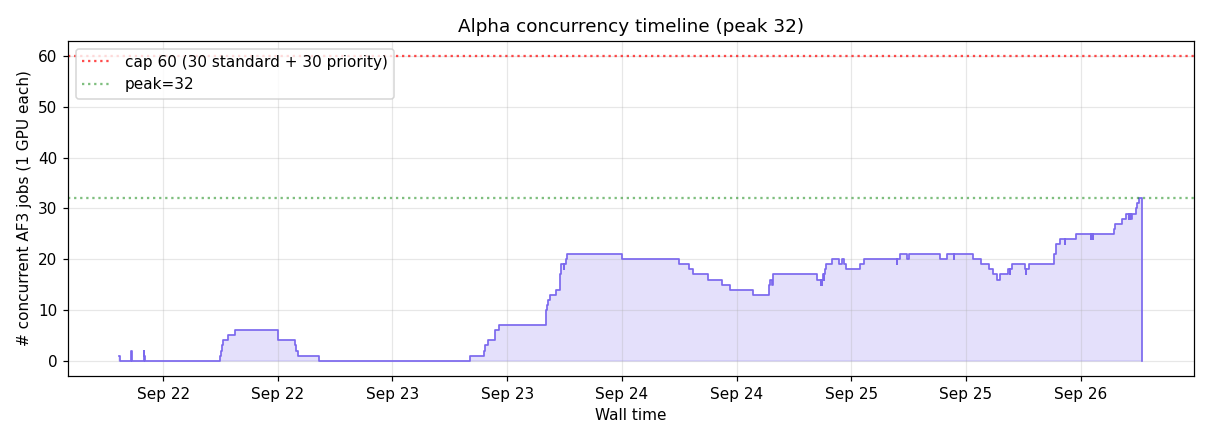
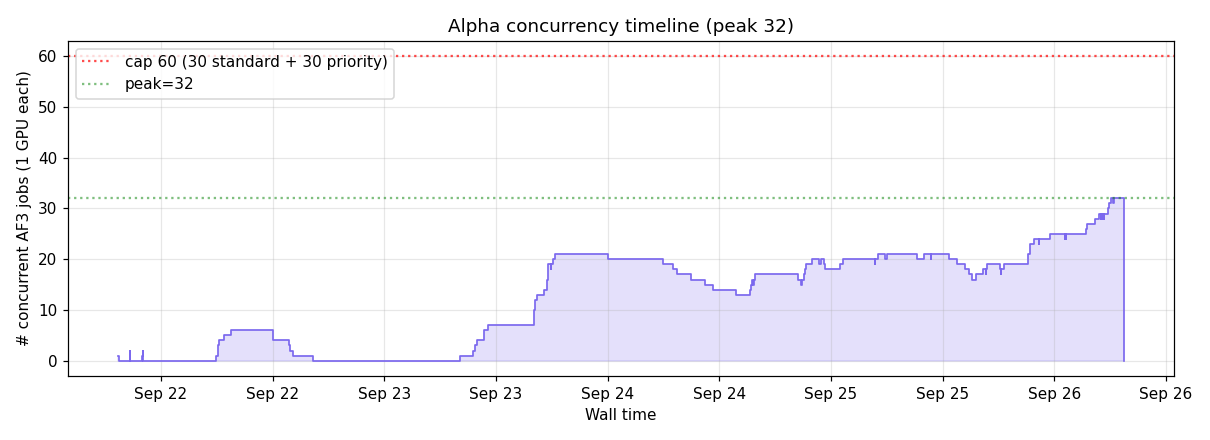
auto: 2026-09-26 07:27:23

diff --git a/index.html b/index.html
@@ -24,23 +24,23 @@ tr:nth-child(even) { background: #fafafa; }
 </style>
 </head><body>
 <h1>AF3 Campaign Dashboard</h1>
-<p class="stamp">Last updated: <strong>2026-09-26 06:27 EDT</strong> · regenerated on the cluster hourly · this page auto-reloads every 30 min</p>
+<p class="stamp">Last updated: <strong>2026-09-26 07:28 EDT</strong> · regenerated on the cluster hourly · this page auto-reloads every 30 min</p>
 
 <div class="cards">
-  <div class="card"><div class="v">2,619</div><div class="l">Total COMPLETED pairs</div></div>
-  <div class="card"><div class="v">590</div><div class="l">Done today</div></div>
-  <div class="card"><div class="v">1,103</div><div class="l">Last 24 h rate</div></div>
+  <div class="card"><div class="v">2,819</div><div class="l">Total COMPLETED pairs</div></div>
+  <div class="card"><div class="v">790</div><div class="l">Done today</div></div>
+  <div class="card"><div class="v">1,264</div><div class="l">Last 24 h rate</div></div>
   <div class="card"><div class="v">32 / 64</div><div class="l">Alpha jobs running / pending (1 GPU each)</div></div>
-  <div class="card"><div class="v">26 / 10</div><div class="l">Beta jobs running / pending (4× GB200 each)</div></div>
-  <div class="card"><div class="v">428</div><div class="l">Beta pairs, last 24 h</div></div>
-  <div class="card"><div class="v">30.0 days</div><div class="l">ETA at last-24h rate (33,131 left)</div></div>
+  <div class="card"><div class="v">32 / 9</div><div class="l">Beta jobs running / pending (4× GB200 each)</div></div>
+  <div class="card"><div class="v">592</div><div class="l">Beta pairs, last 24 h</div></div>
+  <div class="card"><div class="v">26.1 days</div><div class="l">ETA at last-24h rate (32,931 left)</div></div>
 </div>
 
 <h2>Beta (GB200) jobs</h2>
 <p class='stamp'>Beta snapshot 4 min old (refreshed every 10 min from the Beta login node).</p>
 <div class="queue-table">
 <table><thead><tr><th>Job</th><th>State</th><th>Elapsed</th><th>Left</th><th>Pairs done</th><th>Node / reason</th></tr></thead>
-<tbody><tr><td>af3_beta_p344_pk4</td><td>PENDING</td><td>0:00</td><td>1-00:00:00</td><td>0 / 309</td><td>pending: (Priority)</td></tr><tr><td>af3_beta_p347_pk4</td><td>PENDING</td><td>0:00</td><td>1-00:00:00</td><td>0 / 317</td><td>pending: (Priority)</td></tr><tr><td>af3_beta_p351_pk4</td><td>PENDING</td><td>0:00</td><td>1-00:00:00</td><td>0 / 355</td><td>pending: (Priority)</td></tr><tr><td>af3_beta_p355_pk4</td><td>PENDING</td><td>0:00</td><td>1-00:00:00</td><td>0 / 341</td><td>pending: (Priority)</td></tr><tr><td>af3_beta_p358_pk4</td><td>PENDING</td><td>0:00</td><td>1-00:00:00</td><td>0 / 312</td><td>pending: (Priority)</td></tr><tr><td>af3_beta_p363_pk4</td><td>PENDING</td><td>0:00</td><td>1-00:00:00</td><td>0 / 304</td><td>pending: (Priority)</td></tr><tr><td>af3_beta_p366_pk4</td><td>PENDING</td><td>0:00</td><td>1-00:00:00</td><td>0 / 289</td><td>pending: (Priority)</td></tr><tr><td>af3_beta_p367_pk2</td><td>PENDING</td><td>0:00</td><td>1-00:00:00</td><td>0 / 154</td><td>pending: (Priority)</td></tr><tr><td>af3_beta_p373_pk5</td><td>PENDING</td><td>0:00</td><td>1-00:00:00</td><td>0 / 340</td><td>pending: (Priority)</td></tr><tr><td>af3_beta_p369_pk3</td><td>PENDING</td><td>0:00</td><td>1-00:00:00</td><td>0 / 274</td><td>pending: (Priority)</td></tr><tr><td>af3_beta_p447_b001</td><td>RUNNING</td><td>6:28:23</td><td>17:31:37</td><td>14 / 110</td><td>b3-31-s1-dgx-03-c12</td></tr><tr><td>af3_beta_p448_b001</td><td>RUNNING</td><td>6:33:23</td><td>17:26:37</td><td>21 / 110</td><td>b1-33-s1-dgx-01-c14</td></tr><tr><td>af3_beta_p449_b001</td><td>RUNNING</td><td>6:44:25</td><td>17:15:35</td><td>35 / 110</td><td>b2-33-s1-dgx-02-c14</td></tr><tr><td>af3_beta_p451_b001</td><td>RUNNING</td><td>7:46:03</td><td>16:13:57</td><td>47 / 110</td><td>b3-29-s1-dgx-03-c10</td></tr><tr><td>af3_beta_p452_b001</td><td>RUNNING</td><td>7:51:34</td><td>16:08:26</td><td>56 / 106</td><td>b3-28-s1-dgx-03-c09</td></tr><tr><td>af3_beta_p426_pk3</td><td>RUNNING</td><td>5:31:14</td><td>18:28:46</td><td>14 / 238</td><td>b3-15-s1-dgx-03-c05</td></tr><tr><td>af3_beta_p446_b001</td><td>RUNNING</td><td>6:20:21</td><td>17:39:39</td><td>14 / 110</td><td>b3-37-s1-dgx-03-c18</td></tr><tr><td>af3_beta_p429_pk4</td><td>RUNNING</td><td>5:33:45</td><td>18:26:15</td><td>15 / 315</td><td>b1-32-s1-dgx-01-c13</td></tr><tr><td>af3_beta_p433_pk4</td><td>RUNNING</td><td>5:43:16</td><td>18:16:44</td><td>15 / 334</td><td>b1-30-s1-dgx-01-c11</td></tr><tr><td>af3_beta_p435_pk3</td><td>RUNNING</td><td>6:08:20</td><td>17:51:40</td><td>16 / 278</td><td>b1-34-s1-dgx-01-c15</td></tr><tr><td>af3_beta_p439_pk4</td><td>RUNNING</td><td>6:09:20</td><td>17:50:40</td><td>18 / 331</td><td>b1-29-s1-dgx-01-c10</td></tr><tr><td>af3_beta_p440_b001</td><td>RUNNING</td><td>6:14:20</td><td>17:45:40</td><td>25 / 110</td><td>b3-36-s1-dgx-03-c17</td></tr><tr><td>af3_beta_p444_b001</td><td>RUNNING</td><td>6:14:51</td><td>17:45:09</td><td>25 / 110</td><td>b3-11-s1-dgx-03-c01</td></tr><tr><td>af3_beta_p443_b001</td><td>RUNNING</td><td>6:14:51</td><td>17:45:09</td><td>27 / 110</td><td>b3-18-s1-dgx-03-c08</td></tr><tr><td>af3_beta_p442_b001</td><td>RUNNING</td><td>6:14:51</td><td>17:45:09</td><td>23 / 110</td><td>b3-32-s1-dgx-03-c13</td></tr><tr><td>af3_beta_p423_pk4</td><td>RUNNING</td><td>5:26:14</td><td>18:33:46</td><td>17 / 347</td><td>b2-30-s1-dgx-02-c11</td></tr><tr><td>af3_beta_p375_pk3</td><td>RUNNING</td><td>1:26:29</td><td>22:33:31</td><td>0 / 218</td><td>b2-14-s1-dgx-02-c04</td></tr><tr><td>af3_beta_p380_pk3</td><td>RUNNING</td><td>1:27:59</td><td>22:32:01</td><td>0 / 256</td><td>b3-13-s1-dgx-03-c03</td></tr><tr><td>af3_beta_p378_pk4</td><td>RUNNING</td><td>1:27:59</td><td>22:32:01</td><td>1 / 340</td><td>b3-14-s1-dgx-03-c04</td></tr><tr><td>af3_beta_p383_pk4</td><td>RUNNING</td><td>1:28:59</td><td>22:31:01</td><td>0 / 293</td><td>b2-18-s1-dgx-02-c08</td></tr><tr><td>af3_beta_p385_pk2</td><td>RUNNING</td><td>1:29:00</td><td>22:31:00</td><td>0 / 106</td><td>b3-12-s1-dgx-03-c02</td></tr><tr><td>af3_beta_p387_pk3</td><td>RUNNING</td><td>1:39:02</td><td>22:20:58</td><td>3 / 275</td><td>b1-37-s1-dgx-01-c18</td></tr><tr><td>af3_beta_p390_pk3</td><td>RUNNING</td><td>1:42:02</td><td>22:17:58</td><td>3 / 248</td><td>b2-17-s1-dgx-02-c07</td></tr><tr><td>af3_beta_p395_pk4</td><td>RUNNING</td><td>1:46:03</td><td>22:13:57</td><td>4 / 304</td><td>b3-34-s1-dgx-03-c15</td></tr><tr><td>af3_beta_p399_pk4</td><td>RUNNING</td><td>1:50:04</td><td>22:09:56</td><td>3 / 313</td><td>b3-33-s1-dgx-03-c14</td></tr><tr><td>af3_beta_p420_pk4</td><td>RUNNING</td><td>1:50:34</td><td>22:09:26</td><td>4 / 305</td><td>b2-29-s1-dgx-02-c10</td></tr></tbody></table>
+<tbody><tr><td>af3_beta_p344_pk4</td><td>PENDING</td><td>0:00</td><td>1-00:00:00</td><td>0 / 309</td><td>pending: (Priority)</td></tr><tr><td>af3_beta_p347_pk4</td><td>PENDING</td><td>0:00</td><td>1-00:00:00</td><td>0 / 317</td><td>pending: (Priority)</td></tr><tr><td>af3_beta_p351_pk4</td><td>PENDING</td><td>0:00</td><td>1-00:00:00</td><td>0 / 355</td><td>pending: (Priority)</td></tr><tr><td>af3_beta_p355_pk4</td><td>PENDING</td><td>0:00</td><td>1-00:00:00</td><td>0 / 341</td><td>pending: (Priority)</td></tr><tr><td>af3_beta_p327_pk4</td><td>PENDING</td><td>0:00</td><td>1-00:00:00</td><td>0 / 294</td><td>pending: (Priority)</td></tr><tr><td>af3_beta_p330_pk3</td><td>PENDING</td><td>0:00</td><td>1-00:00:00</td><td>0 / 308</td><td>pending: (Priority)</td></tr><tr><td>af3_beta_p334_pk4</td><td>PENDING</td><td>0:00</td><td>1-00:00:00</td><td>0 / 243</td><td>pending: (Priority)</td></tr><tr><td>af3_beta_p337_pk4</td><td>PENDING</td><td>0:00</td><td>1-00:00:00</td><td>0 / 332</td><td>pending: (Priority)</td></tr><tr><td>af3_beta_p339_pk3</td><td>PENDING</td><td>0:00</td><td>1-00:00:00</td><td>0 / 290</td><td>pending: (Priority)</td></tr><tr><td>af3_beta_p447_b001</td><td>RUNNING</td><td>7:28:36</td><td>16:31:24</td><td>18 / 110</td><td>b3-31-s1-dgx-03-c12</td></tr><tr><td>af3_beta_p448_b001</td><td>RUNNING</td><td>7:33:36</td><td>16:26:24</td><td>23 / 110</td><td>b1-33-s1-dgx-01-c14</td></tr><tr><td>af3_beta_p449_b001</td><td>RUNNING</td><td>7:44:38</td><td>16:15:22</td><td>51 / 110</td><td>b2-33-s1-dgx-02-c14</td></tr><tr><td>af3_beta_p451_b001</td><td>RUNNING</td><td>8:46:16</td><td>15:13:44</td><td>71 / 110</td><td>b3-29-s1-dgx-03-c10</td></tr><tr><td>af3_beta_p452_b001</td><td>RUNNING</td><td>8:51:47</td><td>15:08:13</td><td>89 / 106</td><td>b3-28-s1-dgx-03-c09</td></tr><tr><td>af3_beta_p426_pk3</td><td>RUNNING</td><td>6:31:27</td><td>17:28:33</td><td>17 / 238</td><td>b3-15-s1-dgx-03-c05</td></tr><tr><td>af3_beta_p446_b001</td><td>RUNNING</td><td>7:20:34</td><td>16:39:26</td><td>16 / 110</td><td>b3-37-s1-dgx-03-c18</td></tr><tr><td>af3_beta_p429_pk4</td><td>RUNNING</td><td>6:33:58</td><td>17:26:02</td><td>20 / 315</td><td>b1-32-s1-dgx-01-c13</td></tr><tr><td>af3_beta_p433_pk4</td><td>RUNNING</td><td>6:43:29</td><td>17:16:31</td><td>21 / 334</td><td>b1-30-s1-dgx-01-c11</td></tr><tr><td>af3_beta_p435_pk3</td><td>RUNNING</td><td>7:08:33</td><td>16:51:27</td><td>20 / 278</td><td>b1-34-s1-dgx-01-c15</td></tr><tr><td>af3_beta_p439_pk4</td><td>RUNNING</td><td>7:09:33</td><td>16:50:27</td><td>22 / 331</td><td>b1-29-s1-dgx-01-c10</td></tr><tr><td>af3_beta_p440_b001</td><td>RUNNING</td><td>7:14:33</td><td>16:45:27</td><td>33 / 110</td><td>b3-36-s1-dgx-03-c17</td></tr><tr><td>af3_beta_p444_b001</td><td>RUNNING</td><td>7:15:04</td><td>16:44:56</td><td>35 / 110</td><td>b3-11-s1-dgx-03-c01</td></tr><tr><td>af3_beta_p443_b001</td><td>RUNNING</td><td>7:15:04</td><td>16:44:56</td><td>36 / 110</td><td>b3-18-s1-dgx-03-c08</td></tr><tr><td>af3_beta_p442_b001</td><td>RUNNING</td><td>7:15:04</td><td>16:44:56</td><td>30 / 110</td><td>b3-32-s1-dgx-03-c13</td></tr><tr><td>af3_beta_p423_pk4</td><td>RUNNING</td><td>6:26:27</td><td>17:33:33</td><td>21 / 347</td><td>b2-30-s1-dgx-02-c11</td></tr><tr><td>af3_beta_p375_pk3</td><td>RUNNING</td><td>2:26:42</td><td>21:33:18</td><td>4 / 218</td><td>b2-14-s1-dgx-02-c04</td></tr><tr><td>af3_beta_p380_pk3</td><td>RUNNING</td><td>2:28:12</td><td>21:31:48</td><td>4 / 256</td><td>b3-13-s1-dgx-03-c03</td></tr><tr><td>af3_beta_p378_pk4</td><td>RUNNING</td><td>2:28:12</td><td>21:31:48</td><td>4 / 340</td><td>b3-14-s1-dgx-03-c04</td></tr><tr><td>af3_beta_p383_pk4</td><td>RUNNING</td><td>2:29:12</td><td>21:30:48</td><td>4 / 293</td><td>b2-18-s1-dgx-02-c08</td></tr><tr><td>af3_beta_p385_pk2</td><td>RUNNING</td><td>2:29:13</td><td>21:30:47</td><td>3 / 106</td><td>b3-12-s1-dgx-03-c02</td></tr><tr><td>af3_beta_p387_pk3</td><td>RUNNING</td><td>2:39:15</td><td>21:20:45</td><td>4 / 275</td><td>b1-37-s1-dgx-01-c18</td></tr><tr><td>af3_beta_p390_pk3</td><td>RUNNING</td><td>2:42:15</td><td>21:17:45</td><td>4 / 248</td><td>b2-17-s1-dgx-02-c07</td></tr><tr><td>af3_beta_p395_pk4</td><td>RUNNING</td><td>2:46:16</td><td>21:13:44</td><td>8 / 304</td><td>b3-34-s1-dgx-03-c15</td></tr><tr><td>af3_beta_p399_pk4</td><td>RUNNING</td><td>2:50:17</td><td>21:09:43</td><td>4 / 313</td><td>b3-33-s1-dgx-03-c14</td></tr><tr><td>af3_beta_p420_pk4</td><td>RUNNING</td><td>2:50:47</td><td>21:09:13</td><td>6 / 305</td><td>b2-29-s1-dgx-02-c10</td></tr><tr><td>af3_beta_p358_pk4</td><td>RUNNING</td><td>9:32</td><td>23:50:28</td><td>0 / 312</td><td>b2-31-s1-dgx-02-c12</td></tr><tr><td>af3_beta_p363_pk4</td><td>RUNNING</td><td>31:09</td><td>23:28:51</td><td>0 / 304</td><td>b2-13-s1-dgx-02-c03</td></tr><tr><td>af3_beta_p373_pk5</td><td>RUNNING</td><td>33:10</td><td>23:26:50</td><td>0 / 340</td><td>b2-11-s1-dgx-02-c01</td></tr><tr><td>af3_beta_p369_pk3</td><td>RUNNING</td><td>33:10</td><td>23:26:50</td><td>0 / 274</td><td>b2-15-s1-dgx-02-c05</td></tr><tr><td>af3_beta_p367_pk2</td><td>RUNNING</td><td>33:10</td><td>23:26:50</td><td>0 / 154</td><td>b1-16-s1-dgx-01-c06</td></tr><tr><td>af3_beta_p366_pk4</td><td>RUNNING</td><td>33:10</td><td>23:26:50</td><td>0 / 289</td><td>b1-18-s1-dgx-01-c08</td></tr></tbody></table>
 </div>
 
 <h2>Alpha live queue</h2>
@@ -49,14 +49,14 @@ tr:nth-child(even) { background: #fafafa; }
     <h3>RUNNING (32)</h3>
     <div class="queue-table">
       <table><thead><tr><th>Job</th><th>Elapsed</th><th>Left</th><th>Reason / Node</th></tr></thead>
-      <tbody><tr><td>af3_p093_b003</td><td>32:45</td><td>23:27:15</td><td>alphagpu51</td></tr><tr><td>af3_p094_b002</td><td>3:48</td><td>23:56:12</td><td>alphagpu53</td></tr><tr><td>af3_p093_b002</td><td>41:00</td><td>23:19:00</td><td>alphagpu52</td></tr><tr><td>af3_p094_b001</td><td>18:21</td><td>23:41:39</td><td>alphagpu51</td></tr><tr><td>af3_p093_b001</td><td>1:07:08</td><td>22:52:52</td><td>alphagpu52</td></tr><tr><td>af3_p092_b003</td><td>1:17:53</td><td>22:42:07</td><td>alphagpu53</td></tr><tr><td>af3_p092_b002</td><td>1:24:02</td><td>22:35:58</td><td>alphagpu53</td></tr><tr><td>af3_p092_b001</td><td>1:38:57</td><td>22:21:03</td><td>alphagpu52</td></tr><tr><td>af3_p091_b003</td><td>2:04:08</td><td>21:55:52</td><td>alphagpu52</td></tr><tr><td>af3_p091_b002</td><td>2:51:56</td><td>21:08:04</td><td>alphagpu51</td></tr><tr><td>af3_p091_b001</td><td>3:00:09</td><td>20:59:51</td><td>alphagpu54</td></tr><tr><td>af3_p090_b003</td><td>5:11:19</td><td>18:48:41</td><td>alphagpu52</td></tr><tr><td>af3_p090_b002</td><td>5:18:31</td><td>18:41:29</td><td>alphagpu53</td></tr><tr><td>af3_p090_b001</td><td>6:54:56</td><td>17:05:04</td><td>alphagpu54</td></tr><tr><td>af3_p085_b003</td><td>8:05:44</td><td>15:54:16</td><td>alphagpu52</td></tr><tr><td>af3_p085_b002</td><td>8:36:07</td><td>15:23:53</td><td>alphagpu54</td></tr><tr><td>af3_p085_b001</td><td>9:01:47</td><td>14:58:13</td><td>alphagpu54</td></tr><tr><td>af3_p083_b003</td><td>9:04:21</td><td>14:55:39</td><td>alphagpu54</td></tr><tr><td>af3_p083_b002</td><td>9:13:04</td><td>14:46:56</td><td>alphagpu52</td></tr><tr><td>af3_p083_b001</td><td>9:15:07</td><td>14:44:53</td><td>alphagpu53</td></tr><tr><td>af3_p061_b002</td><td>1-00:26:27</td><td>23:33:33</td><td>alphagpu51</td></tr><tr><td>af3_p061_b001</td><td>1-01:19:52</td><td>22:40:08</td><td>alphagpu53</td></tr><tr><td>af3_p060_b002</td><td>1-01:39:35</td><td>22:20:25</td><td>alphagpu51</td></tr><tr><td>af3_p060_b001</td><td>1-05:08:25</td><td>18:51:35</td><td>alphagpu53</td></tr><tr><td>af3_p065_b002</td><td>11:52:04</td><td>1-12:07:56</td><td>alphagpu54</td></tr><tr><td>af3_p065_b001</td><td>12:10:37</td><td>1-11:49:23</td><td>alphagpu52</td></tr><tr><td>af3_p064_b002</td><td>13:37:52</td><td>1-10:22:08</td><td>alphagpu53</td></tr><tr><td>af3_p064_b001</td><td>13:47:30</td><td>1-10:12:30</td><td>alphagpu54</td></tr><tr><td>af3_p063_b002</td><td>14:02:43</td><td>1-09:57:17</td><td>alphagpu51</td></tr><tr><td>af3_p063_b001</td><td>14:51:54</td><td>1-09:08:06</td><td>alphagpu51</td></tr><tr><td>af3_p062_b002</td><td>19:39:50</td><td>1-04:20:10</td><td>alphagpu51</td></tr><tr><td>af3_p062_b001</td><td>20:23:21</td><td>1-03:36:39</td><td>alphagpu54</td></tr></tbody></table>
+      <tbody><tr><td>af3_p093_b003</td><td>1:33:34</td><td>22:26:26</td><td>alphagpu51</td></tr><tr><td>af3_p094_b002</td><td>1:04:37</td><td>22:55:23</td><td>alphagpu53</td></tr><tr><td>af3_p093_b002</td><td>1:41:49</td><td>22:18:11</td><td>alphagpu52</td></tr><tr><td>af3_p094_b001</td><td>1:19:10</td><td>22:40:50</td><td>alphagpu51</td></tr><tr><td>af3_p093_b001</td><td>2:07:57</td><td>21:52:03</td><td>alphagpu52</td></tr><tr><td>af3_p092_b003</td><td>2:18:42</td><td>21:41:18</td><td>alphagpu53</td></tr><tr><td>af3_p092_b002</td><td>2:24:51</td><td>21:35:09</td><td>alphagpu53</td></tr><tr><td>af3_p092_b001</td><td>2:39:46</td><td>21:20:14</td><td>alphagpu52</td></tr><tr><td>af3_p091_b003</td><td>3:04:57</td><td>20:55:03</td><td>alphagpu52</td></tr><tr><td>af3_p091_b002</td><td>3:52:45</td><td>20:07:15</td><td>alphagpu51</td></tr><tr><td>af3_p091_b001</td><td>4:00:58</td><td>19:59:02</td><td>alphagpu54</td></tr><tr><td>af3_p090_b003</td><td>6:12:08</td><td>17:47:52</td><td>alphagpu52</td></tr><tr><td>af3_p090_b002</td><td>6:19:20</td><td>17:40:40</td><td>alphagpu53</td></tr><tr><td>af3_p090_b001</td><td>7:55:45</td><td>16:04:15</td><td>alphagpu54</td></tr><tr><td>af3_p085_b003</td><td>9:06:33</td><td>14:53:27</td><td>alphagpu52</td></tr><tr><td>af3_p085_b002</td><td>9:36:56</td><td>14:23:04</td><td>alphagpu54</td></tr><tr><td>af3_p085_b001</td><td>10:02:36</td><td>13:57:24</td><td>alphagpu54</td></tr><tr><td>af3_p083_b003</td><td>10:05:10</td><td>13:54:50</td><td>alphagpu54</td></tr><tr><td>af3_p083_b002</td><td>10:13:53</td><td>13:46:07</td><td>alphagpu52</td></tr><tr><td>af3_p083_b001</td><td>10:15:56</td><td>13:44:04</td><td>alphagpu53</td></tr><tr><td>af3_p061_b002</td><td>1-01:27:16</td><td>22:32:44</td><td>alphagpu51</td></tr><tr><td>af3_p061_b001</td><td>1-02:20:41</td><td>21:39:19</td><td>alphagpu53</td></tr><tr><td>af3_p060_b002</td><td>1-02:40:24</td><td>21:19:36</td><td>alphagpu51</td></tr><tr><td>af3_p060_b001</td><td>1-06:09:14</td><td>17:50:46</td><td>alphagpu53</td></tr><tr><td>af3_p065_b002</td><td>12:52:53</td><td>1-11:07:07</td><td>alphagpu54</td></tr><tr><td>af3_p065_b001</td><td>13:11:26</td><td>1-10:48:34</td><td>alphagpu52</td></tr><tr><td>af3_p064_b002</td><td>14:38:41</td><td>1-09:21:19</td><td>alphagpu53</td></tr><tr><td>af3_p064_b001</td><td>14:48:19</td><td>1-09:11:41</td><td>alphagpu54</td></tr><tr><td>af3_p063_b002</td><td>15:03:32</td><td>1-08:56:28</td><td>alphagpu51</td></tr><tr><td>af3_p063_b001</td><td>15:52:43</td><td>1-08:07:17</td><td>alphagpu51</td></tr><tr><td>af3_p062_b002</td><td>20:40:39</td><td>1-03:19:21</td><td>alphagpu51</td></tr><tr><td>af3_p062_b001</td><td>21:24:10</td><td>1-02:35:50</td><td>alphagpu54</td></tr></tbody></table>
     </div>
   </div>
   <div>
     <h3>PENDING (64)</h3>
     <div class="queue-table">
       <table><thead><tr><th>Job</th><th>Wait</th><th>Limit</th><th>Reason</th></tr></thead>
-      <tbody><tr><td>af3_p094_b003</td><td>0:00</td><td>1-00:00:00</td><td>(Priority)</td></tr><tr><td>af3_p096_b003</td><td>0:00</td><td>1-00:00:00</td><td>(Priority)</td></tr><tr><td>af3_p096_b001</td><td>0:00</td><td>1-00:00:00</td><td>(Priority)</td></tr><tr><td>af3_p096_b002</td><td>0:00</td><td>1-00:00:00</td><td>(Priority)</td></tr><tr><td>af3_p095_b003</td><td>0:00</td><td>1-00:00:00</td><td>(Priority)</td></tr><tr><td>af3_p095_b002</td><td>0:00</td><td>1-00:00:00</td><td>(Priority)</td></tr><tr><td>af3_p095_b001</td><td>0:00</td><td>1-00:00:00</td><td>(Priority)</td></tr><tr><td>af3_p098_b003</td><td>0:00</td><td>1-00:00:00</td><td>(Priority)</td></tr><tr><td>af3_p098_b002</td><td>0:00</td><td>1-00:00:00</td><td>(Priority)</td></tr><tr><td>af3_p098_b001</td><td>0:00</td><td>1-00:00:00</td><td>(Priority)</td></tr><tr><td>af3_p097_b002</td><td>0:00</td><td>1-00:00:00</td><td>(Priority)</td></tr><tr><td>af3_p097_b003</td><td>0:00</td><td>1-00:00:00</td><td>(Priority)</td></tr><tr><td>af3_p097_b001</td><td>0:00</td><td>1-00:00:00</td><td>(Priority)</td></tr><tr><td>af3_p100_b003</td><td>0:00</td><td>1-00:00:00</td><td>(Priority)</td></tr><tr><td>af3_p100_b001</td><td>0:00</td><td>1-00:00:00</td><td>(Priority)</td></tr><tr><td>af3_p100_b002</td><td>0:00</td><td>1-00:00:00</td><td>(Priority)</td></tr><tr><td>af3_p099_b003</td><td>0:00</td><td>1-00:00:00</td><td>(Priority)</td></tr><tr><td>af3_p099_b002</td><td>0:00</td><td>1-00:00:00</td><td>(Priority)</td></tr><tr><td>af3_p099_b001</td><td>0:00</td><td>1-00:00:00</td><td>(Priority)</td></tr><tr><td>af3_p102_b003</td><td>0:00</td><td>1-00:00:00</td><td>(Priority)</td></tr><tr><td>af3_p102_b002</td><td>0:00</td><td>1-00:00:00</td><td>(Priority)</td></tr><tr><td>af3_p102_b001</td><td>0:00</td><td>1-00:00:00</td><td>(Priority)</td></tr><tr><td>af3_p101_b002</td><td>0:00</td><td>1-00:00:00</td><td>(Priority)</td></tr><tr><td>af3_p101_b003</td><td>0:00</td><td>1-00:00:00</td><td>(Priority)</td></tr><tr><td>af3_p101_b001</td><td>0:00</td><td>1-00:00:00</td><td>(Priority)</td></tr><tr><td>af3_p103_b003</td><td>0:00</td><td>1-00:00:00</td><td>(Priority)</td></tr><tr><td>af3_p103_b002</td><td>0:00</td><td>1-00:00:00</td><td>(Priority)</td></tr><tr><td>af3_p103_b001</td><td>0:00</td><td>1-00:00:00</td><td>(Priority)</td></tr><tr><td>af3_p071_b002</td><td>0:00</td><td>2-00:00:00</td><td>(Priority)</td></tr><tr><td>af3_p071_b001</td><td>0:00</td><td>2-00:00:00</td><td>(Priority)</td></tr><tr><td>af3_p070_b002</td><td>0:00</td><td>2-00:00:00</td><td>(Priority)</td></tr><tr><td>af3_p070_b001</td><td>0:00</td><td>2-00:00:00</td><td>(Priority)</td></tr><tr><td>af3_p069_b002</td><td>0:00</td><td>2-00:00:00</td><td>(Priority)</td></tr><tr><td>af3_p069_b001</td><td>0:00</td><td>2-00:00:00</td><td>(Priority)</td></tr><tr><td>af3_p068_b002</td><td>0:00</td><td>2-00:00:00</td><td>(Priority)</td></tr><tr><td>af3_p068_b001</td><td>0:00</td><td>2-00:00:00</td><td>(Priority)</td></tr><tr><td>af3_p067_b002</td><td>0:00</td><td>2-00:00:00</td><td>(Priority)</td></tr><tr><td>af3_p067_b001</td><td>0:00</td><td>2-00:00:00</td><td>(Priority)</td></tr><tr><td>af3_p066_b002</td><td>0:00</td><td>2-00:00:00</td><td>(Priority)</td></tr><tr><td>af3_p066_b001</td><td>0:00</td><td>2-00:00:00</td><td>(Priority)</td></tr><tr><td>af3_p078_b002</td><td>0:00</td><td>2-00:00:00</td><td>(Priority)</td></tr><tr><td>af3_p078_b001</td><td>0:00</td><td>2-00:00:00</td><td>(Priority)</td></tr><tr><td>af3_p077_b002</td><td>0:00</td><td>2-00:00:00</td><td>(Priority)</td></tr><tr><td>af3_p077_b001</td><td>0:00</td><td>2-00:00:00</td><td>(Priority)</td></tr><tr><td>af3_p076_b002</td><td>0:00</td><td>2-00:00:00</td><td>(Priority)</td></tr><tr><td>af3_p076_b001</td><td>0:00</td><td>2-00:00:00</td><td>(Priority)</td></tr><tr><td>af3_p075_b002</td><td>0:00</td><td>2-00:00:00</td><td>(Priority)</td></tr><tr><td>af3_p075_b001</td><td>0:00</td><td>2-00:00:00</td><td>(Priority)</td></tr><tr><td>af3_p074_b002</td><td>0:00</td><td>2-00:00:00</td><td>(Priority)</td></tr><tr><td>af3_p074_b001</td><td>0:00</td><td>2-00:00:00</td><td>(Priority)</td></tr><tr><td>af3_p073_b002</td><td>0:00</td><td>2-00:00:00</td><td>(Priority)</td></tr><tr><td>af3_p073_b001</td><td>0:00</td><td>2-00:00:00</td><td>(Priority)</td></tr><tr><td>af3_p072_b002</td><td>0:00</td><td>2-00:00:00</td><td>(Priority)</td></tr><tr><td>af3_p072_b001</td><td>0:00</td><td>2-00:00:00</td><td>(Priority)</td></tr><tr><td>af3_p080_b002</td><td>0:00</td><td>2-00:00:00</td><td>(Priority)</td></tr><tr><td>af3_p080_b001</td><td>0:00</td><td>2-00:00:00</td><td>(Priority)</td></tr><tr><td>af3_p082_b002</td><td>0:00</td><td>2-00:00:00</td><td>(Priority)</td></tr><tr><td>af3_p082_b001</td><td>0:00</td><td>2-00:00:00</td><td>(Priority)</td></tr><tr><td>af3_p104_b002</td><td>0:00</td><td>2-00:00:00</td><td>(Priority)</td></tr><tr><td>af3_p104_b001</td><td>0:00</td><td>2-00:00:00</td><td>(Priority)</td></tr><tr><td>af3_p106_b002</td><td>0:00</td><td>2-00:00:00</td><td>(Priority)</td></tr><tr><td>af3_p106_b001</td><td>0:00</td><td>2-00:00:00</td><td>(Priority)</td></tr><tr><td>af3_p107_b002</td><td>0:00</td><td>2-00:00:00</td><td>(Priority)</td></tr><tr><td>af3_p107_b001</td><td>0:00</td><td>2-00:00:00</td><td>(Priority)</td></tr></tbody></table>
+      <tbody><tr><td>af3_p094_b003</td><td>0:00</td><td>1-00:00:00</td><td>(Priority)</td></tr><tr><td>af3_p096_b003</td><td>0:00</td><td>1-00:00:00</td><td>(Priority)</td></tr><tr><td>af3_p096_b001</td><td>0:00</td><td>1-00:00:00</td><td>(Priority)</td></tr><tr><td>af3_p096_b002</td><td>0:00</td><td>1-00:00:00</td><td>(Priority)</td></tr><tr><td>af3_p095_b003</td><td>0:00</td><td>1-00:00:00</td><td>(Priority)</td></tr><tr><td>af3_p095_b002</td><td>0:00</td><td>1-00:00:00</td><td>(Priority)</td></tr><tr><td>af3_p095_b001</td><td>0:00</td><td>1-00:00:00</td><td>(Priority)</td></tr><tr><td>af3_p098_b003</td><td>0:00</td><td>1-00:00:00</td><td>(Priority)</td></tr><tr><td>af3_p098_b002</td><td>0:00</td><td>1-00:00:00</td><td>(Priority)</td></tr><tr><td>af3_p098_b001</td><td>0:00</td><td>1-00:00:00</td><td>(Priority)</td></tr><tr><td>af3_p097_b002</td><td>0:00</td><td>1-00:00:00</td><td>(Priority)</td></tr><tr><td>af3_p097_b003</td><td>0:00</td><td>1-00:00:00</td><td>(Priority)</td></tr><tr><td>af3_p097_b001</td><td>0:00</td><td>1-00:00:00</td><td>(Priority)</td></tr><tr><td>af3_p100_b003</td><td>0:00</td><td>1-00:00:00</td><td>(Priority)</td></tr><tr><td>af3_p100_b001</td><td>0:00</td><td>1-00:00:00</td><td>(Priority)</td></tr><tr><td>af3_p100_b002</td><td>0:00</td><td>1-00:00:00</td><td>(Priority)</td></tr><tr><td>af3_p099_b003</td><td>0:00</td><td>1-00:00:00</td><td>(Priority)</td></tr><tr><td>af3_p099_b002</td><td>0:00</td><td>1-00:00:00</td><td>(Priority)</td></tr><tr><td>af3_p099_b001</td><td>0:00</td><td>1-00:00:00</td><td>(Priority)</td></tr><tr><td>af3_p102_b003</td><td>0:00</td><td>1-00:00:00</td><td>(Priority)</td></tr><tr><td>af3_p102_b002</td><td>0:00</td><td>1-00:00:00</td><td>(Priority)</td></tr><tr><td>af3_p102_b001</td><td>0:00</td><td>1-00:00:00</td><td>(Priority)</td></tr><tr><td>af3_p101_b002</td><td>0:00</td><td>1-00:00:00</td><td>(Priority)</td></tr><tr><td>af3_p101_b003</td><td>0:00</td><td>1-00:00:00</td><td>(Priority)</td></tr><tr><td>af3_p101_b001</td><td>0:00</td><td>1-00:00:00</td><td>(Priority)</td></tr><tr><td>af3_p103_b003</td><td>0:00</td><td>1-00:00:00</td><td>(Priority)</td></tr><tr><td>af3_p103_b002</td><td>0:00</td><td>1-00:00:00</td><td>(Priority)</td></tr><tr><td>af3_p103_b001</td><td>0:00</td><td>1-00:00:00</td><td>(Priority)</td></tr><tr><td>af3_p068_b002</td><td>0:00</td><td>2-00:00:00</td><td>(Priority)</td></tr><tr><td>af3_p068_b001</td><td>0:00</td><td>2-00:00:00</td><td>(Priority)</td></tr><tr><td>af3_p067_b002</td><td>0:00</td><td>2-00:00:00</td><td>(Priority)</td></tr><tr><td>af3_p067_b001</td><td>0:00</td><td>2-00:00:00</td><td>(Priority)</td></tr><tr><td>af3_p066_b002</td><td>0:00</td><td>2-00:00:00</td><td>(Priority)</td></tr><tr><td>af3_p066_b001</td><td>0:00</td><td>2-00:00:00</td><td>(Priority)</td></tr><tr><td>af3_p078_b002</td><td>0:00</td><td>2-00:00:00</td><td>(Priority)</td></tr><tr><td>af3_p078_b001</td><td>0:00</td><td>2-00:00:00</td><td>(Priority)</td></tr><tr><td>af3_p077_b002</td><td>0:00</td><td>2-00:00:00</td><td>(Priority)</td></tr><tr><td>af3_p077_b001</td><td>0:00</td><td>2-00:00:00</td><td>(Priority)</td></tr><tr><td>af3_p076_b002</td><td>0:00</td><td>2-00:00:00</td><td>(Priority)</td></tr><tr><td>af3_p076_b001</td><td>0:00</td><td>2-00:00:00</td><td>(Priority)</td></tr><tr><td>af3_p075_b002</td><td>0:00</td><td>2-00:00:00</td><td>(Priority)</td></tr><tr><td>af3_p075_b001</td><td>0:00</td><td>2-00:00:00</td><td>(Priority)</td></tr><tr><td>af3_p074_b002</td><td>0:00</td><td>2-00:00:00</td><td>(Priority)</td></tr><tr><td>af3_p074_b001</td><td>0:00</td><td>2-00:00:00</td><td>(Priority)</td></tr><tr><td>af3_p073_b002</td><td>0:00</td><td>2-00:00:00</td><td>(Priority)</td></tr><tr><td>af3_p073_b001</td><td>0:00</td><td>2-00:00:00</td><td>(Priority)</td></tr><tr><td>af3_p072_b002</td><td>0:00</td><td>2-00:00:00</td><td>(Priority)</td></tr><tr><td>af3_p072_b001</td><td>0:00</td><td>2-00:00:00</td><td>(Priority)</td></tr><tr><td>af3_p071_b002</td><td>0:00</td><td>2-00:00:00</td><td>(Priority)</td></tr><tr><td>af3_p071_b001</td><td>0:00</td><td>2-00:00:00</td><td>(Priority)</td></tr><tr><td>af3_p070_b002</td><td>0:00</td><td>2-00:00:00</td><td>(Priority)</td></tr><tr><td>af3_p070_b001</td><td>0:00</td><td>2-00:00:00</td><td>(Priority)</td></tr><tr><td>af3_p069_b002</td><td>0:00</td><td>2-00:00:00</td><td>(Priority)</td></tr><tr><td>af3_p069_b001</td><td>0:00</td><td>2-00:00:00</td><td>(Priority)</td></tr><tr><td>af3_p080_b002</td><td>0:00</td><td>2-00:00:00</td><td>(Priority)</td></tr><tr><td>af3_p080_b001</td><td>0:00</td><td>2-00:00:00</td><td>(Priority)</td></tr><tr><td>af3_p082_b002</td><td>0:00</td><td>2-00:00:00</td><td>(Priority)</td></tr><tr><td>af3_p082_b001</td><td>0:00</td><td>2-00:00:00</td><td>(Priority)</td></tr><tr><td>af3_p104_b002</td><td>0:00</td><td>2-00:00:00</td><td>(Priority)</td></tr><tr><td>af3_p104_b001</td><td>0:00</td><td>2-00:00:00</td><td>(Priority)</td></tr><tr><td>af3_p106_b002</td><td>0:00</td><td>2-00:00:00</td><td>(Priority)</td></tr><tr><td>af3_p106_b001</td><td>0:00</td><td>2-00:00:00</td><td>(Priority)</td></tr><tr><td>af3_p107_b002</td><td>0:00</td><td>2-00:00:00</td><td>(Priority)</td></tr><tr><td>af3_p107_b001</td><td>0:00</td><td>2-00:00:00</td><td>(Priority)</td></tr></tbody></table>
     </div>
   </div>
 </div>
